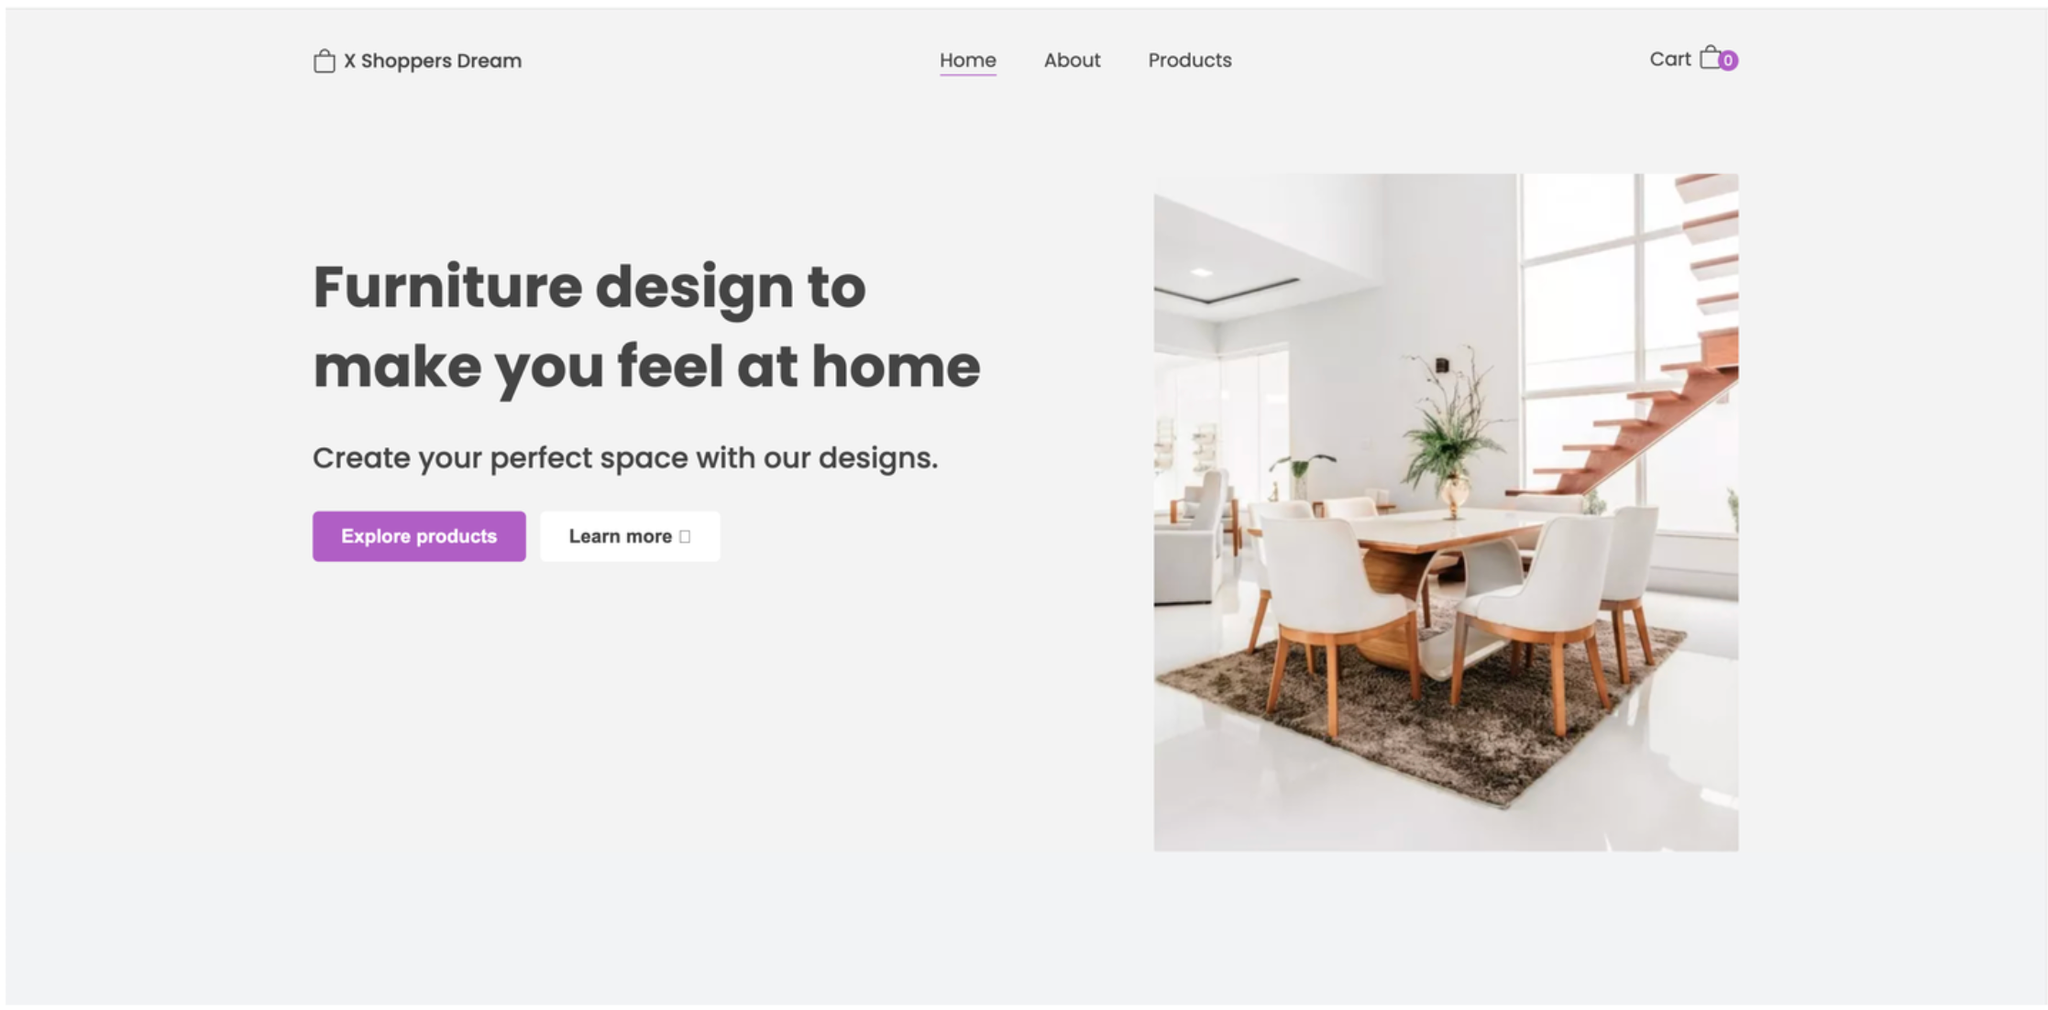
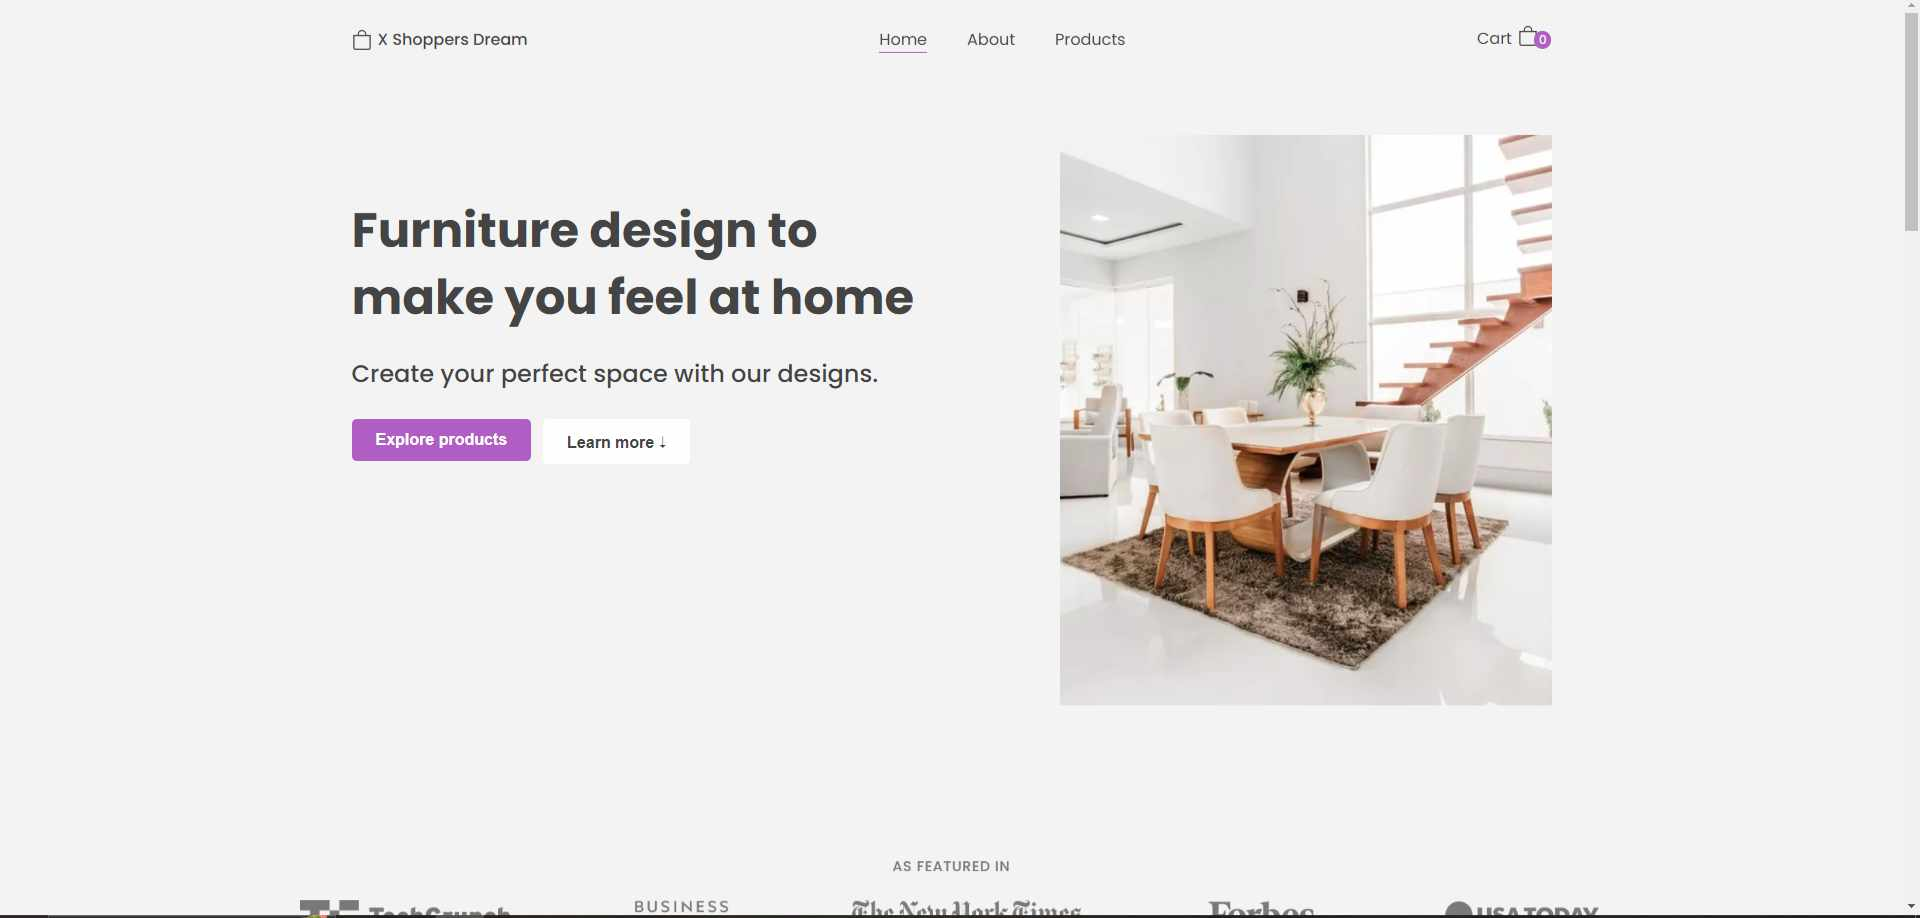
Add Button component

diff --git a/src/components/Header.tsx b/src/components/Header.tsx
@@ -10,15 +10,15 @@ const Header = () => {
   };
   return (
     <>
-      <header className="flex justify-between py-10 pr-1 lg:w-[1280px] mx-auto">
-        <div className="flex items-center font-medium gap-2 text-sm lg:text-lg">
-          <BsBag className="text-[1.35rem]" />
-          <span className=" text-slate-700 font-semibold border border-black">
+      <header className="flex justify-between py-8 pr-8 lg:w-[1220px] mx-auto border border-black">
+        <div className="flex items-center font-medium gap-1 text-sm lg:text-base">
+          <BsBag className="text-[1.25rem]" />
+          <span className=" text-slate-700">
             X Shoppers Dream
           </span>
         </div>
         <nav className="hidden lg:flex">
-          <ul className="flex gap-10 text-lg font-medium text-slate-700">
+          <ul className="flex gap-10 text-base font-medium text-slate-700">
             <li className="underline underline-offset-[6px] decoration-fuchsia-600">
               <a href="#">Home</a>
             </li>
@@ -31,13 +31,14 @@ const Header = () => {
           </ul>
         </nav>
 
-        <div className="hidden lg:flex items-center gap-2 text-lg relative">
+        <div className="hidden lg:flex items-center gap-2 text-base relative">
           <span className="font-medium">Cart</span>
-          <BsBag className="text-[1.35rem] self-start" />
-          <span className="bg-fuchsia-600 text-fuchsia-50 text-xs px-1 rounded-full absolute top-2 -right-2">
+          <BsBag className="text-[1.25rem] self-start" />
+          <span className="bg-fuchsia-600 text-fuchsia-50 text-sm w-[1.1rem] h-[1.1rem] flex items-center justify-center rounded-full absolute top-1 -right-3">
             0
           </span>
         </div>
+
         <div className="lg:hidden flex px-8 relative">
           <GiHamburgerMenu
             className="w-10 h-10 cursor-pointer absolute -top-2 right-6 lg:hidden"

diff --git a/src/components/HeroSection.tsx b/src/components/HeroSection.tsx
@@ -1,31 +1,29 @@
 import heroImg from "../assets/heroImg.a885da91476b940bf532.png";
+import Button from "./Button";
 import { IoIosArrowRoundDown } from "react-icons/io";
 const HeroSection = () => {
   return (
     <section className="flex flex-col lg:flex-row justify-between py-12 w-[1280px] mx-auto">
       <div className="py-16 w-[50%] flex flex-col gap-7">
-      {/* <div className="py-16 w-[650px] flex flex-col gap-7"> */}
-        <h1 className="text-[52px] font-bold leading-snug">
+        <h1 className="text-3xl lg:text-[52px] font-bold leading-snug">
           Furniture design to <br /> make you feel at home
         </h1>
-        <h2 className="text-[26px] font-semibold">
+        <h2 className="text-lg lg:text-[26px] font-semibold">
           Create your perfect space with our designs.
         </h2>
         <div className="flex gap-4">
-          <button className="bg-fuchsia-600 text-fuchsia-50 font-bold rounded-md px-7 py-3 transition-all duration-200  hover:bg-fuchsia-700">
+          <Button color="Purple">
             Explore products
-          </button>
-          <button className="font-bold flex items-center gap-1 px-7 py-3 rounded-md transition-all duration-300">
+          </Button>
+          <Button color="Transparent">
             <span>Learn more</span>
             <IoIosArrowRoundDown />
-          </button>
+          </Button>
         </div>
       </div>
 
       <div className="w-[40%]">
         <img src={heroImg} alt="Hero img" />
-        {/* <div className="w-[515px]"> */}
-        {/* <img src={heroImg} alt="Hero img" />  */}
       </div>
     </section>
   );

diff --git a/src/components/Button.tsx b/src/components/Button.tsx
@@ -1,0 +1,16 @@
+import { ButtonProps } from "../types/types";
+const Button = ({ children, color }: ButtonProps) => {
+  const description =
+    color === "Purple"
+      ? "bg-fuchsia-600 text-fuchsia-50 hover:bg-fuchsia-700"
+      : "hover:bg-neutral-200";
+  return (
+    <button
+      className={`${description} px-4 py-2 flex items-center gap-11 font-bold rounded-md lg:px-7 lg:py-3 transition-all duration-200`}
+    >
+      {children}
+    </button>
+  );
+};
+
+export default Button;

diff --git a/tailwind.config.js b/tailwind.config.js
@@ -4,7 +4,7 @@ export default {
   theme: {
     screens: {
       sm:'500px',
-      lg: "1305px",
+      lg: "1320px",
     },
     extend: {},
   },

diff --git a/src/types/types.ts b/src/types/types.ts
@@ -1,0 +1,6 @@
+import { ReactNode } from "react";
+
+export type ButtonProps = {
+    children: ReactNode;
+    color:string
+}
